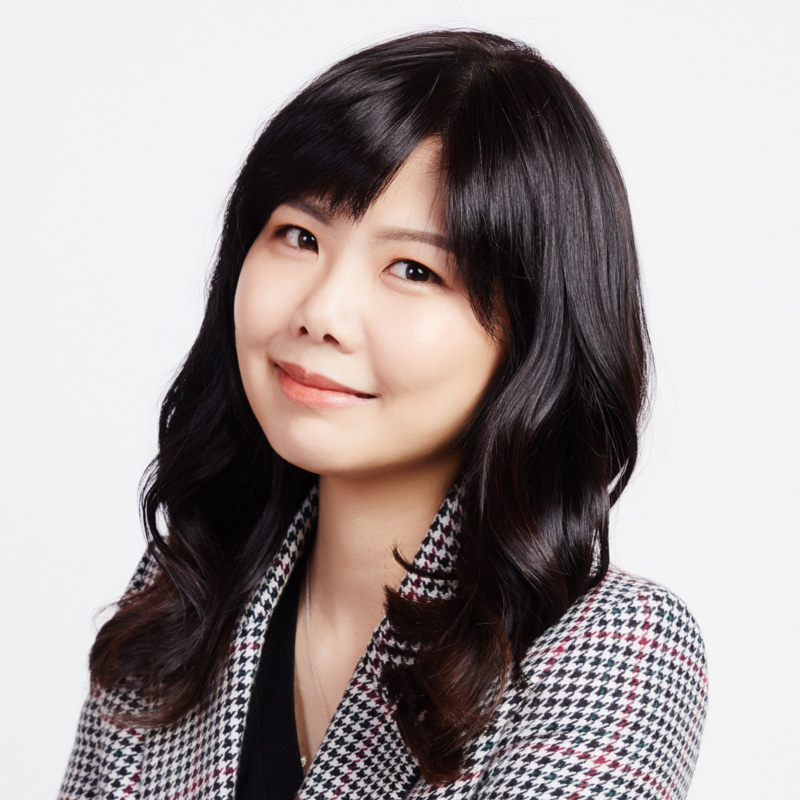
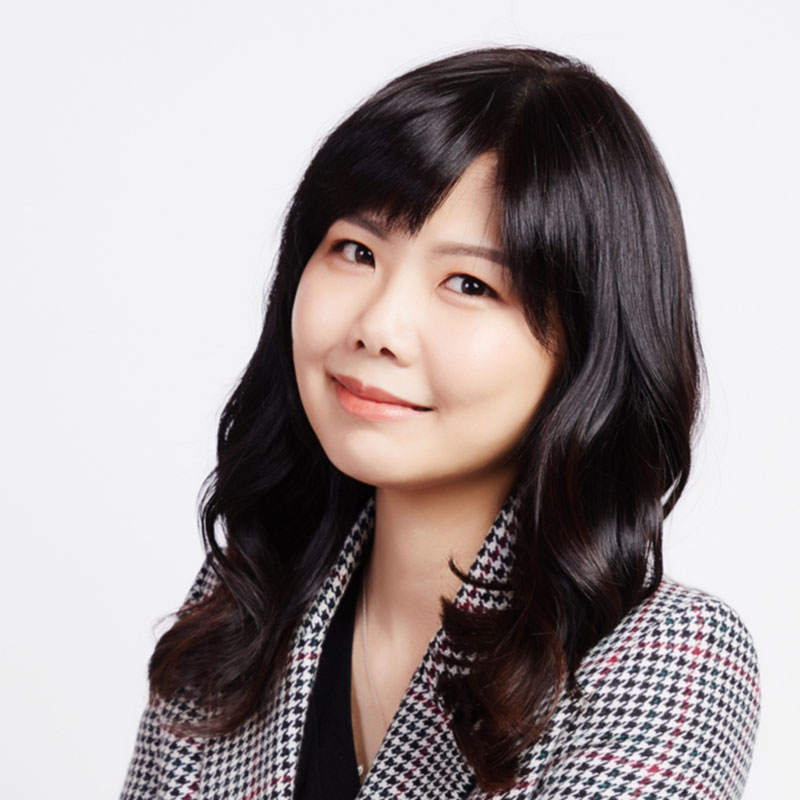
Add committee 2022 and change layout

diff --git a/committee.html b/committee.html
@@ -96,6 +96,7 @@ leaderships:
           position: Postdoctoral Fellow at Harvard Medical School
           current: Principal Investigator at Academia Sinica, Taiwan
 ---
+
 <div class="row align-items-center py-auto my-auto py-md-5 my-md-5">
     <div class="col-12 col-md col-lg-5">
         <h1 class="display-1">
@@ -112,7 +113,49 @@ leaderships:
 </div>
 
 <hr class="mt-5 mb-4" />
-
+<ul class="nav" role="tablist">
+    <li class="nav-item">
+        <a class="nav-link active" data-toggle="tab" href="#link1" role="tablist" aria-expanded="true">
+            2022
+        </a>
+    </li>
+</ul>
+<div class="tab-content tab-space">
+    <div class="tab-pane active" id="link1" aria-expanded="true">
+        <div class="row">
+            {% for row in site.data.committee.2022 %}
+            <div class="col-6 col-md-4 col-lg-3 p-3 p-lg-4 mb-2">
+                <div class="col-12 col-xl-10">
+                    <img src="{{ "/assets/img/committee/" | append: row['Headshot Name'] | absolute_url }}" class="img-fluid w-100 rounded-circle" alt="">
+                </div>
+                <div class="d-flex mt-4">
+                    <div>
+                        <h4 class="mb-0">
+                            <strong>{{ row['Name in English'] }}</strong>
+                        </h4>
+                        <p>{{ row['Position title on the website'] }}</p>
+                    </div>
+                    <div class="flex-grow-1 align-self-center ml-2">
+                        <button class="btn btn-neutral btn-fab btn-icon btn-round m-0">
+                            <a href="{{ row.LinkedIn }}" target="_blank">
+                                <img src="{{ "/assets/img/linkedin_logo.svg" | absolute_url }}" class="rounded-0 pl-1" style="height: 1rem;" alt="">
+                            </a>
+                        </button>
+                    </div>
+                </div>
+            </div>
+            {% endfor %}
+        </div>
+    </div>
+    <div class="tab-pane" id="link2" aria-expanded="false">
+      Efficiently unleash cross-media information without cross-media value. Quickly maximize timely deliverables for real-time schemas.
+      <br><br>Dramatically maintain clicks-and-mortar solutions without functional solutions.
+    </div>
+    <div class="tab-pane" id="link3" aria-expanded="false">
+        Completely synergize resource taxing relationships via premier niche markets. Professionally cultivate one-to-one customer service with robust ideas.
+        <br><br>Dynamically innovate resource-leveling customer service for state of the art customer service.
+    </div>
+</div>
 {% for item in page.leaderships %}
     <h2 class="mt-5 mb-3">{{ item[0] | capitalize }}</h2>
         <div class="row">
